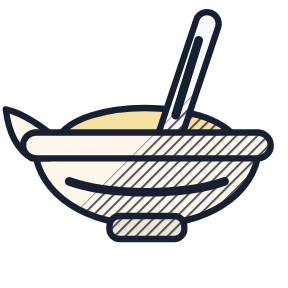
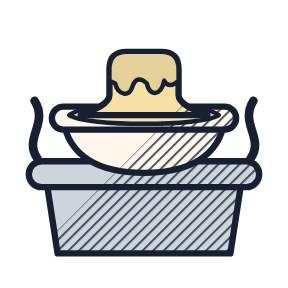
Market yolunda çizgi halkaya girmiyor; eritme ve soğutma ikonları yeni
- Duraklar arası çizgi halkanın kenarında başlayıp bitiyor
- Eritme: su banyosunda kapsül, içinde eriyip akan yağ kalıbı, buhar
- Soğutma: mantar halkada kapsül, koyulaşan krem, düşük gösteren termometre

diff --git a/tools/ikon_blok/uretici.html b/tools/ikon_blok/uretici.html
@@ -446,15 +446,18 @@ const IKONLAR=[
  // eritilir, su fazının maddeleri beherde çözülür, su fazı kapsüle eklenerek emülsiyon
  // yapılır, krem soğuyana kadar karıştırılarak soğutulur. Kapsül "Porselen kapsül"
  // alet ikonunun aynısı.
+ // Eritme (Tuğrul, 2026-10-29, "beğenmedim"): su banyosunun üstünde porselen kapsül,
+ // içinde dibi akıp yayılan yağ kalıbı; banyonun iki yanından buhar yükselir.
  {grup:'Adımlar',dosya:'adim_eritme',ad:'Eritme',kutu:'#FFD6C2',parts:[
-  {d:'M20,48C28,34 72,34 82,48Z',c:'#F2D27A'},       // eriyen yağ fazı
-  {d:cap(72,8,58,50,8),c:'#F4F6F8'},                // termometre
-  {d:'M12,52H90C88,68 72,78 51,78C30,78 14,68 12,52Z',c:R.krem}, // kapsül
-  {d:'M2,38C7,39 13,43 17,46V55H11C6,52 3,46 2,38Z',c:R.krem},
-  {d:rr(8,46,86,9,4.5),c:R.krem},
-  {d:rr(38,75,26,8,3.5),c:R.kremKoyu},
-  {d:'M24,63C38,68 64,68 78,63',c:R.mavi,line:1},
-  {d:'M61,40L69,14',c:R.kan,line:1}]},              // yükselen kırmızı sıvı
+  {d:'M16,62H84L80,88H20Z',c:R.metal},              // su banyosu tenceresi
+  {d:rr(10,56,80,9,4.5),c:R.metal},                 // tencere ağzı
+  {d:'M22,42H78C76,54 66,60 50,60C34,60 24,54 22,42Z',c:R.krem}, // kapsül
+  {d:rr(18,37,64,8,4),c:R.krem},                    // kapsül kenarı
+  {d:'M24,40C30,35 70,35 76,40C70,44 30,44 24,40Z',c:'#F2D27A',flat:1}, // eriyip yayılan yağ
+  {d:'M38,24C38,20 40,18 44,18H56C60,18 62,20 62,24V33C62,36 67,38 72,40H28C33,38 38,36 38,33Z',c:'#F2D27A'}, // eriyen kalıp
+  // üstten akan erime katmanı, dalgalı ucu aşağı süzülür
+  {d:'M38,24C38,20 40,18 44,18H56C60,18 62,20 62,24V28C60,30 58,30 57,28C56,33 52,34 51,29C49,27 47,27 46,30C45,34 41,33 40,29L38,28Z',c:D('#F2D27A',.12),flat:1},
+  {d:'M13,55C8,48 17,43 12,35M87,55C92,48 83,43 88,35',c:R.buz,line:1}]}, // buhar
  {grup:'Adımlar',dosya:'adim_cozme',ad:'Çözme',kutu:'#CFE4F7',parts:[
   {d:rr(22,24,50,60,8),c:R.cam},                    // beher
   {d:rr(26,44,42,36,6),c:R.buz},                    // su fazı
@@ -471,16 +474,15 @@ const IKONLAR=[
   {d:rr(38,75,26,8,3.5),c:R.kremKoyu},
   {d:'M24,63C38,68 64,68 78,63',c:R.mavi,line:1}]},
  // Soğutma: krem banyodan alınıp soğuyana kadar karıştırılır; hızlı soğutulmaz (buz yok).
+ // Soğutma (Tuğrul, 2026-10-29, "beğenmedim"): kapsül banyodan alınıp mantar halkaya
+ // konur (buz yok); krem koyulaşıp tepe yapar, termometre düşük gösterir (mavi).
  {grup:'Adımlar',dosya:'adim_sogutma',ad:'Soğutma',kutu:'#C9EFE6',parts:[
-  {d:'M24,48C29,30 73,30 78,48Z',c:'#FFFFFF'},       // kıvam alan beyaz krem
-  {d:'M36,42C42,36 56,36 60,41',c:R.kremKoyu,line:1}, // karıştırma izi
-  {d:cap(58,40,82,14,8),c:R.metal},                 // spatül ağzı
-  {d:cap(80,16,90,6,8),c:R.kahve},                  // sap
-  {d:'M12,52H90C88,68 72,78 51,78C30,78 14,68 12,52Z',c:R.krem}, // kapsül
-  {d:'M2,38C7,39 13,43 17,46V55H11C6,52 3,46 2,38Z',c:R.krem},
-  {d:rr(8,46,86,9,4.5),c:R.krem},
-  {d:rr(38,75,26,8,3.5),c:R.kremKoyu},
-  {d:'M24,63C38,68 64,68 78,63',c:R.mavi,line:1}]},
+  {d:'M20,46C24,36 34,33 42,36C44,26 50,20 54,28C56,32 58,34 62,35C70,35 78,40 80,46Z',c:'#FFFFFF'}, // koyulaşan krem
+  {d:cap(78,8,64,46,8),c:'#F4F6F8'},                // termometre
+  {d:cap(65.5,42,67.5,36,3.5),c:R.mavi,flat:1},     // düşük mavi sıvı
+  {d:'M14,52H86C84,66 70,76 50,76C30,76 16,66 14,52Z',c:R.krem}, // kapsül
+  {d:rr(10,46,80,9,4.5),c:R.krem},                  // kapsül kenarı
+  {d:rr(20,74,60,12,6),c:'#C8A274'}]},              // mantar halka
  // Formül kitabındaki öteki adımlar (2026-10-28).
  // Elekten geçirme: toz elekten geçip altta yığılır.
  {grup:'Adımlar',dosya:'adim_elek',ad:'Elekten geçirme',kutu:'#FFE3A6',parts:[

diff --git a/lib/widgets/market_widgets.dart b/lib/widgets/market_widgets.dart
@@ -62,11 +62,12 @@ class StationSection extends StatelessWidget {
                 double center(int i) => i * (width + gap) + width / 2;
                 return Stack(
                   children: [
-                    // Duraklar arası çizgi: iki ucu da eldeyse yeşil.
+                    // Duraklar arası çizgi: iki ucu da eldeyse yeşil. Halkanın
+                    // kenarında başlar ve biter, halkanın içine girmez (Tuğrul, 2026-10-29).
                     for (var i = 1; i < n; i++)
                       Positioned(
-                        left: center(i - 1),
-                        width: center(i) - center(i - 1),
+                        left: center(i - 1) + _TierNode.ring / 2,
+                        width: math.max(0, center(i) - center(i - 1) - _TierNode.ring),
                         top: _TierNode.ring / 2 - 2,
                         height: 4,
                         child: DecoratedBox(
